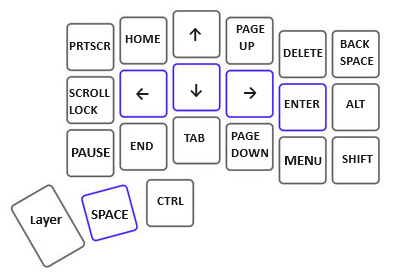
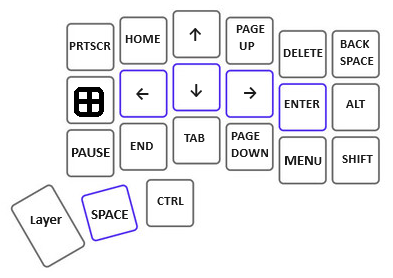
replaced scan lock with WINDOWS key

Changed region(s): [[0.1527, 0.2878, 0.2748, 0.4317]]

diff --git a/readme.md b/readme.md
@@ -221,7 +221,7 @@ keymap = {
           (KEY,  [Keycode.KEYPAD_FIVE])),
     (10): ((KEY, [Keycode.J]), (KEY,  [Keycode.LEFT_ARROW]),
            (KEY,  [Keycode.KEYPAD_FOUR])),
-    (11): ((KEY, [Keycode.H]), (KEY,  [Keycode.SCROLL_LOCK]),
+    (11): ((KEY, [Keycode.H]), (KEY,  [Keycode.WINDOWS]),
            (KEY,  [Keycode.KEYPAD_ASTERISK])),
 
     (12): ((KEY, [Keycode.RIGHT_SHIFT]), (KEY,  [Keycode.RIGHT_SHIFT]),
